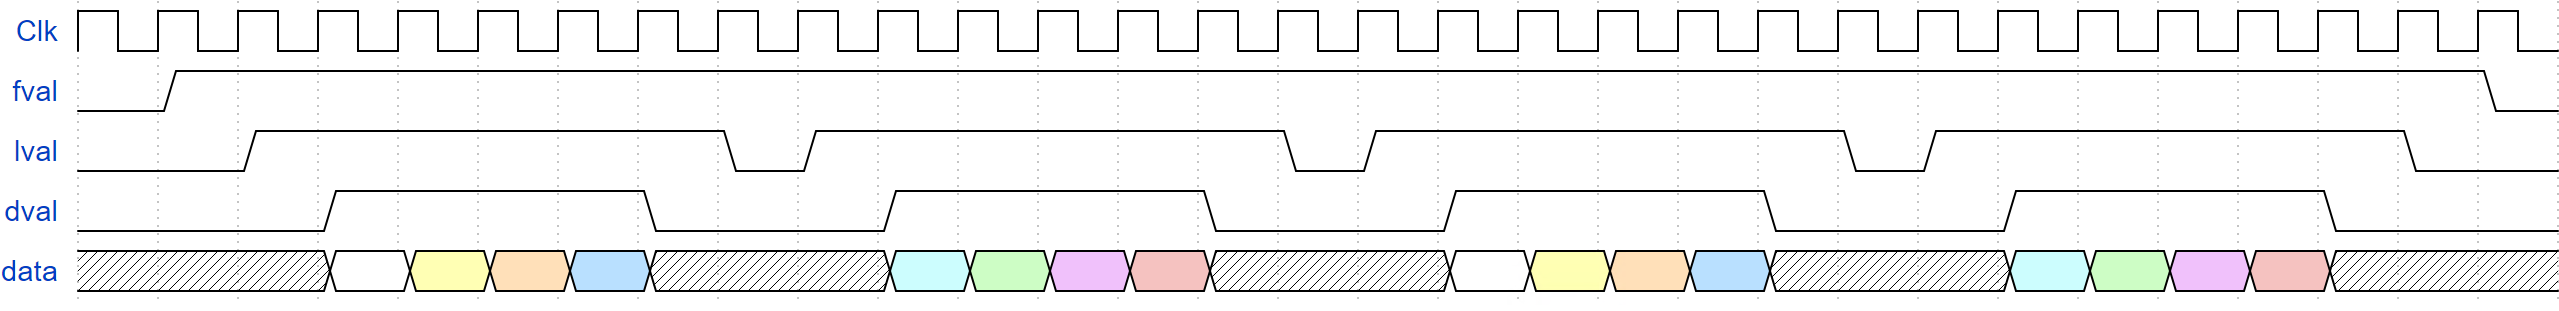
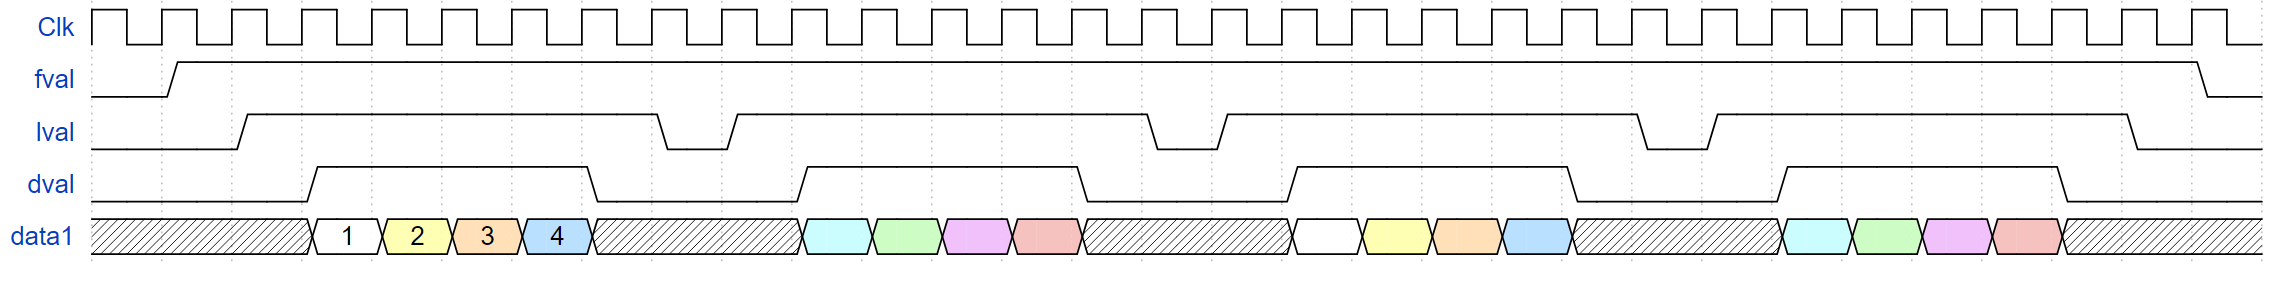
Better NUM_DATA_STREAMS documentation

diff --git a/README.md b/README.md
@@ -9,6 +9,9 @@ VideoBus is a simple protocol to stream video using fval (frame valid) / lval (l
 Below is an example of how a 4x4 image may be transmitted over a single data stream. 
 ![timing diagram of clk/fval/lval/dval/data](VideoBusInterface.png)
 
+When using multiple data streams, multiple sequential pixels are sent simultaneously. Below is an example of how the same 4x4 image may be transmitted over 2 data streams.
+![timing diagram of clk/fval/lval/dval/data1/data2](VideoBusInterface_2ds.png)
+
 ## Compile OSVVM and run the tests
 ----------------------------------------------------
 
